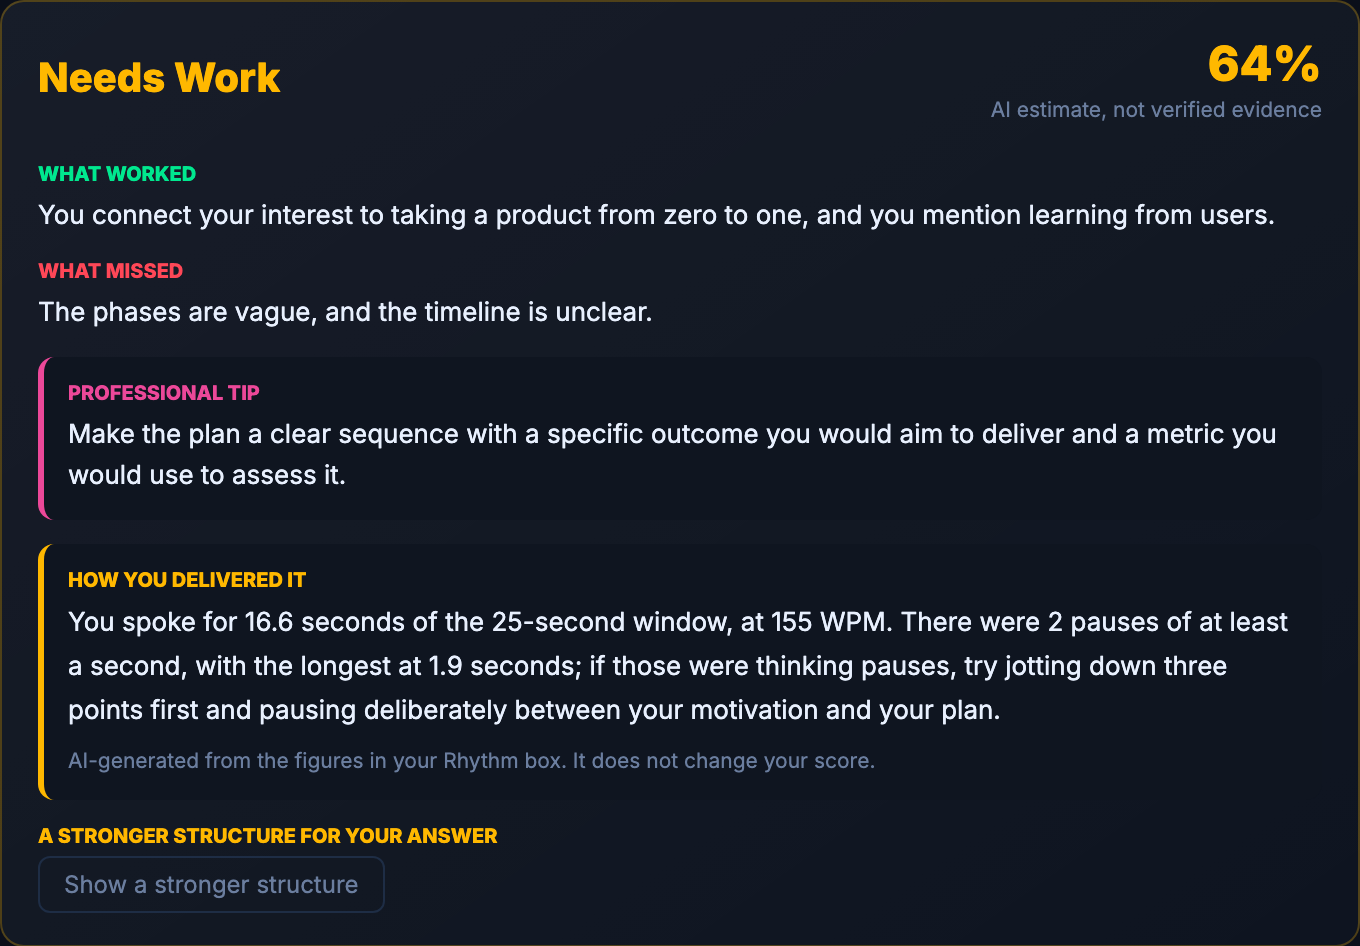
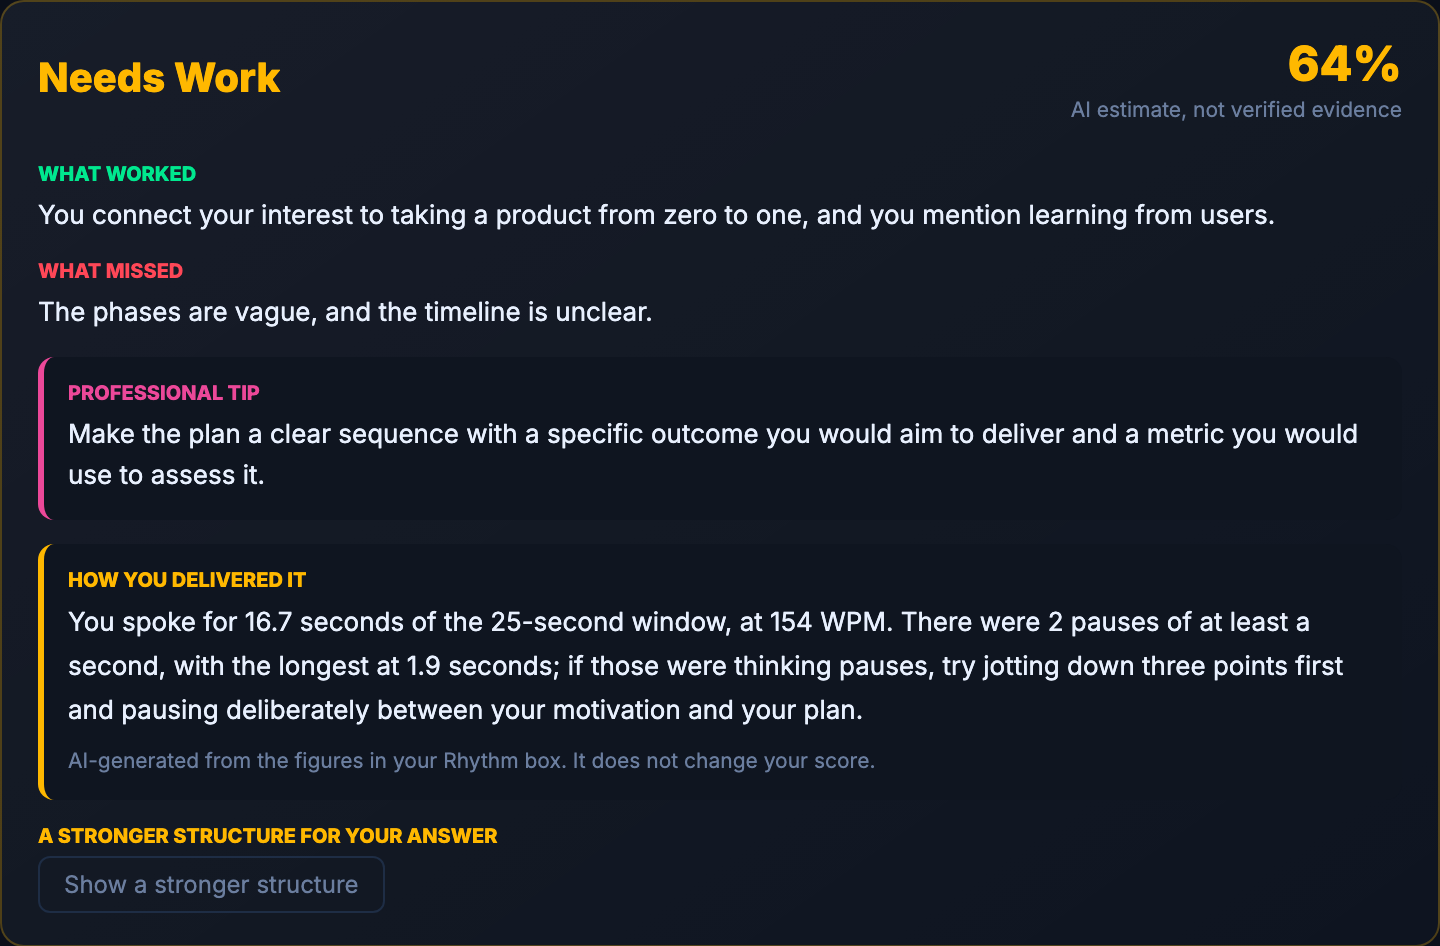
feat(landing): show the new voice screen (colour by rhythm, fuller insights) in the interview situation
The "I have an interview coming" panel now shows three real screens from the redesigned voice
answer, sharp (device scale 2): the recording with the rhythm coloured by loudness, the speaking
insights (ticks for speaking time, pace on one scale, the pauses listed, the timeline) and the
feedback with how the answer was delivered. Captions say colour is not a grade, voice practice is
rolling out, and the data is synthetic. The test now expects three voice screens.

Measured on the built page (desktop and phone): one h1, axe critical and serious 0 in all four
chooser states, no overflow, no console errors, no broken images. npm test: 230 files passed.

diff --git a/src/features/Landing/NewLanding.jsx b/src/features/Landing/NewLanding.jsx
@@ -3,6 +3,7 @@ import './NewLanding.css';
 import dashCrop from './shots/dashboard-crop.png';
 import resumeFull from './shots/resume-real-full.png';
 import resumeRight from './shots/resume-real-right.png';
+import recordingShot from './shots/voice-recording.png';
 import insightsShot from './shots/speaking-insights.png';
 import deliveryShot from './shots/delivery-feedback.png';
 import salaryShot from './shots/salary-gap.png';
@@ -66,8 +67,9 @@ const MOMENTS = [
     stays: 'Finished sessions and saved stories show up on your Dashboard and Roadmap.',
     tools: 'Interview Coach, STAR Bank, Weakness Radar.',
     shots: [
-      { key: 'voice', src: insightsShot, w: 1360, h: 592, chip: 'Measured on your device', alt: 'Voice answer with the transcript, speaking pace, speaking time, long pauses and a rhythm timeline', caption: 'Your pace, your pauses and your rhythm. Voice practice is rolling out. Synthetic account and made-up data.' },
-      { key: 'delivery', src: deliveryShot, w: 1360, h: 946, chip: 'Does not change your score', alt: 'Feedback on a spoken answer: what worked, what was missed, a tip and how it was delivered', caption: 'What worked, what was missed, and how you delivered it, written from your own figures. Synthetic account and made-up data.' },
+      { key: 'recording', src: recordingShot, w: 1440, h: 1286, chip: 'Colour follows your voice', alt: 'Voice recording in progress: a live waveform and a rhythm timeline coloured by how loud each stretch was, with a pause of a second or more picked out', caption: 'While you speak, each stretch is coloured by how loud it is compared with your own voice: softer, steady or louder. It is not a grade. Voice practice is rolling out. Synthetic account and made-up data.' },
+      { key: 'voice', src: insightsShot, w: 1440, h: 816, chip: 'Measured on your device', alt: 'Speaking insights for a voice answer: pace, speaking time, long pauses, the pace on one scale, the pauses listed with their times and the rhythm timeline', caption: 'Your pace, your pauses and your rhythm, with no target and no score. Synthetic account and made-up data.' },
+      { key: 'delivery', src: deliveryShot, w: 1440, h: 946, chip: 'Does not change your score', alt: 'Feedback on a spoken answer: what worked, what was missed, a tip and how it was delivered', caption: 'What worked, what was missed, and how you delivered it, written from your own figures. Synthetic account and made-up data.' },
     ],
   },
   {

diff --git a/src/features/Landing/NewLanding.test.jsx b/src/features/Landing/NewLanding.test.jsx
@@ -91,11 +91,11 @@ describe('the situation chooser', () => {
     expect(screen.getByRole('heading', { level: 3, name: /what you will say before you sit down/i })).toBeTruthy();
   });
 
-  it('the interview situation shows the voice screen and the delivery feedback, and says voice is rolling out', () => {
+  it('the interview situation shows the recording, the speaking insights and the delivery feedback, and says voice is rolling out', () => {
     show();
     fireEvent.click(screen.getByRole('button', { name: /I have an interview coming/i }));
     const imgs = screen.getAllByRole('img').filter(i => /voice|spoken|delivered/i.test(i.getAttribute('alt') || ''));
-    expect(imgs.length).toBe(2);
+    expect(imgs.length).toBe(3);
     expect(document.body.textContent).toMatch(/Voice practice is rolling out/);
   });
 
